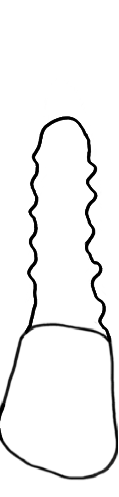
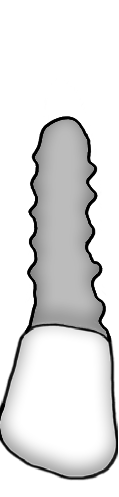
+t_z.png(черн) и t_i.png

Changed region(s): [[0.0, 0.2414, 0.9832, 0.9658]]

diff --git a/teethsite/periodontalchart/templates/periodontalchart/index.html b/teethsite/periodontalchart/templates/periodontalchart/index.html
@@ -307,14 +307,14 @@
   <table bgcolor=#ffffff align="center" id="table3">
       <tr align="center">
     <td style="border: 0;"></td>
-       <td class = "td_imgs"><img id="t18z" class = "teeth_img" name = 0 src="static/periodontalchart/img/t18.PNG"></td>
-       <td class = "td_imgs"><img id="t17z" class = "teeth_img" name = 0 src="static/periodontalchart/img/t17.PNG"></td>
-       <td class = "td_imgs"><img id="t16z" class = "teeth_img" name = 0 src="static/periodontalchart/img/t16.PNG"></td>
-       <td class = "td_imgs"><img id="t15z" class = "teeth_img" name = 0 src="static/periodontalchart/img/t15.PNG"></td>
-       <td class = "td_imgs"><img id="t14z" class = "teeth_img" name = 0 src="static/periodontalchart/img/t14.PNG"></td>
-       <td class = "td_imgs"><img id="t13z" class = "teeth_img" name = 0 src="static/periodontalchart/img/t13.PNG"></td>
-       <td class = "td_imgs"><img id="t12z" class = "teeth_img" name = 0 src="static/periodontalchart/img/t12.PNG"></td>
-       <td class = "td_imgs"><img id="t11z" class = "teeth_img" name = 0 src="static/periodontalchart/img/t11.PNG"></td>
+       <td class = "td_imgs"><img id="t18z" class = "teeth_img" name = 0 src="static/periodontalchart/img/t18z.PNG"></td>
+       <td class = "td_imgs"><img id="t17z" class = "teeth_img" name = 0 src="static/periodontalchart/img/t17z.PNG"></td>
+       <td class = "td_imgs"><img id="t16z" class = "teeth_img" name = 0 src="static/periodontalchart/img/t16z.PNG"></td>
+       <td class = "td_imgs"><img id="t15z" class = "teeth_img" name = 0 src="static/periodontalchart/img/t15z.PNG"></td>
+       <td class = "td_imgs"><img id="t14z" class = "teeth_img" name = 0 src="static/periodontalchart/img/t14z.PNG"></td>
+       <td class = "td_imgs"><img id="t13z" class = "teeth_img" name = 0 src="static/periodontalchart/img/t13z.PNG"></td>
+       <td class = "td_imgs"><img id="t12z" class = "teeth_img" name = 0 src="static/periodontalchart/img/t12z.PNG"></td>
+       <td class = "td_imgs"><img id="t11z" class = "teeth_img" name = 0 src="static/periodontalchart/img/t11z.PNG"></td>
    </tr>
          <tr align="center">
     <td class="td_text">Десневой край</td>

diff --git a/teethsite/periodontalchart/static/periodontalchart/js/implant.js b/teethsite/periodontalchart/static/periodontalchart/js/implant.js
@@ -69,7 +69,6 @@ function implant14() {
               el.name = 0;
            }
 }
-
 function implant13() {
            var el = document.getElementById("t13");
            if (el.name == 0){
@@ -82,6 +81,7 @@ function implant13() {
               el.name = 0;
            }
 }
+
 
 function implant12() {
            var el = document.getElementById("t12");
